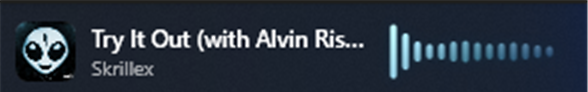
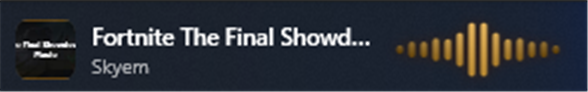
v1.0.2: symmetric spectrum, beat-reactive wave, click-away to close, borderless X

Changed region(s): [[0.0, 0.1957, 0.9796, 0.8913], [0.1531, 0.6304, 0.2755, 0.8478], [0.0, 0.9783, 1.0, 1.0]]

diff --git a/MainWindow.xaml b/MainWindow.xaml
@@ -157,15 +157,23 @@
                     </StackPanel>
                 </Grid>
 
-                <!-- Close button -->
-                <ui:Button x:Name="CloseButton" Appearance="Transparent" Padding="4"
-                           Width="28" Height="28" FontSize="12"
-                           HorizontalAlignment="Right" VerticalAlignment="Top" Margin="0,10,10,0"
-                           Click="Close_Click" ToolTip="Cerrar">
-                    <ui:Button.Icon>
-                        <ui:SymbolIcon Symbol="Dismiss24" />
-                    </ui:Button.Icon>
-                </ui:Button>
+                <!-- Close (bare X, no button chrome) -->
+                <Border x:Name="CloseButton" Background="Transparent" Cursor="Hand"
+                        Width="24" Height="24" HorizontalAlignment="Right" VerticalAlignment="Top"
+                        Margin="0,10,12,0" MouseLeftButtonUp="Close_Click" ToolTip="Cerrar">
+                    <Border.Style>
+                        <Style TargetType="Border">
+                            <Setter Property="Opacity" Value="0.55" />
+                            <Style.Triggers>
+                                <Trigger Property="IsMouseOver" Value="True">
+                                    <Setter Property="Opacity" Value="1" />
+                                </Trigger>
+                            </Style.Triggers>
+                        </Style>
+                    </Border.Style>
+                    <ui:SymbolIcon Symbol="Dismiss24" FontSize="15" Foreground="White"
+                                   HorizontalAlignment="Center" VerticalAlignment="Center" />
+                </Border>
             </Grid>
         </Border>
     </Grid>

diff --git a/SpectrumWindow.xaml.cs b/SpectrumWindow.xaml.cs
@@ -54,13 +54,17 @@ public partial class SpectrumWindow : Window
     private readonly DispatcherTimer _topmostTimer = new() { Interval = TimeSpan.FromMilliseconds(800) };
     private IntPtr _hwnd;
 
+    private const int Half = (BarCount + 1) / 2;   // bands mirrored around the centre
+
     private readonly AudioSpectrumService _spectrum;
     private Rectangle[] _bars = Array.Empty<Rectangle>();
-    private readonly float[] _raw = new float[BarCount];
-    private readonly float[] _smooth = new float[BarCount];
-    private readonly float[] _display = new float[BarCount];
+    private readonly float[] _band = new float[Half];
+    private readonly float[] _smooth = new float[Half];
     private float _agc = 1e-4f;
     private Color _accent = Color.FromRgb(0x4C, 0xC2, 0xFF);
+
+    /// <summary>Bounds of the widget in physical pixels (for click-outside detection).</summary>
+    public (int L, int T, int R, int B) WidgetBounds => (_rectL, _rectT, _rectR, _rectB);
 
     /// <summary>Raised when the user clicks the taskbar widget.</summary>
     public event Action? WidgetClicked;
@@ -183,19 +187,19 @@ public partial class SpectrumWindow : Window
         };
     }
 
-    /// <summary>Paint a smooth horizontal colour gradient across the bars (light → accent → deep).</summary>
+    /// <summary>Symmetric colour: bright at the centre, deeper toward the edges (matches the mirror).</summary>
     private void ApplyBarColors()
     {
         if (_bars.Length == 0) return;
 
-        Color left = Lighten(_accent, 95);
-        Color mid = _accent;
-        Color right = Deepen(_accent);
+        Color bright = Lighten(_accent, 55);
+        Color deep = Deepen(_accent);
+        double centre = (_bars.Length - 1) / 2.0;
 
         for (int i = 0; i < _bars.Length; i++)
         {
-            double t = _bars.Length <= 1 ? 0 : (double)i / (_bars.Length - 1);
-            Color baseC = t < 0.5 ? Lerp(left, mid, t * 2) : Lerp(mid, right, (t - 0.5) * 2);
+            double dc = centre <= 0 ? 0 : Math.Abs(i - centre) / centre; // 0 = centre, 1 = edge
+            Color baseC = Lerp(bright, deep, dc);
 
             var g = new LinearGradientBrush { StartPoint = new Point(0, 0), EndPoint = new Point(0, 1) };
             g.GradientStops.Add(new GradientStop(Lighten(baseC, 45), 0));
@@ -215,36 +219,42 @@ public partial class SpectrumWindow : Window
     {
         if (!_spectrum.IsRunning || _bars.Length == 0) return;
 
-        _spectrum.GetBars(_raw);
+        // Only half as many bands — they get mirrored, so bass sits in the centre.
+        _spectrum.GetBars(_band);
 
         float max = 0;
-        for (int i = 0; i < BarCount; i++)
-            if (_raw[i] > max) max = _raw[i];
+        for (int i = 0; i < Half; i++)
+            if (_band[i] > max) max = _band[i];
 
         _agc = Math.Max(max, _agc * 0.985f);
         if (_agc < 1e-4f) _agc = 1e-4f;
 
         bool quiet = max < 0.006f;
 
-        for (int i = 0; i < BarCount; i++)
+        for (int i = 0; i < Half; i++)
         {
-            float target = quiet ? 0f : Math.Clamp(_raw[i] / _agc, 0f, 1f);
-            float rate = target > _smooth[i] ? 0.5f : 0.08f; // fast attack, slow release (gradual pause)
+            float target = quiet ? 0f : Math.Clamp(_band[i] / _agc, 0f, 1f);
+            float rate = target > _smooth[i] ? 0.5f : 0.08f; // fast attack, slow release
             _smooth[i] += (target - _smooth[i]) * rate;
         }
 
-        // Light spatial smoothing => a flowing waveform rather than jumpy spikes.
         double h = BarsCanvas.ActualHeight > 0 ? BarsCanvas.ActualHeight : BarsCanvas.Height;
-        for (int i = 0; i < BarCount; i++)
-        {
-            float l = _smooth[Math.Max(0, i - 1)];
-            float r = _smooth[Math.Min(BarCount - 1, i + 1)];
-            _display[i] = (l + 2 * _smooth[i] + r) / 4f;
+        int center = BarCount / 2;
 
-            double bh = _display[i] < 0.012 ? 0 : 3 + _display[i] * (h - 4);
-            _bars[i].Height = bh;
-            Canvas.SetTop(_bars[i], (h - bh) / 2); // grow from the centre line
+        // Mirror: band 0 (bass) lands on the two centre bars, higher bands fan out to the edges.
+        for (int j = 0; j < Half; j++)
+        {
+            double bh = _smooth[j] < 0.012 ? 0 : 3 + _smooth[j] * (h - 4);
+            SetBar(center + j, bh, h);       // right side
+            SetBar(center - 1 - j, bh, h);   // left side
         }
+    }
+
+    private void SetBar(int index, double barHeight, double canvasHeight)
+    {
+        if (index < 0 || index >= _bars.Length) return;
+        _bars[index].Height = barHeight;
+        Canvas.SetTop(_bars[index], (canvasHeight - barHeight) / 2); // grow from the centre line
     }
 
     protected override void OnClosed(EventArgs e)

diff --git a/MainWindow.xaml.cs b/MainWindow.xaml.cs
@@ -1,5 +1,7 @@
+using System.Runtime.InteropServices;
 using System.Windows;
 using System.Windows.Input;
+using System.Windows.Interop;
 using System.Windows.Media;
 using System.Windows.Media.Animation;
 using System.Windows.Threading;
@@ -18,6 +20,21 @@ public partial class MainWindow : Window
     private readonly NowPlayingViewModel _vm = new();
 
     private SpectrumWindow? _spectrum;
+
+    // Global mouse hook to close the flyout when the user clicks anywhere outside it.
+    private delegate IntPtr LowLevelMouseProc(int nCode, IntPtr wParam, IntPtr lParam);
+    [DllImport("user32.dll")] private static extern IntPtr SetWindowsHookEx(int idHook, LowLevelMouseProc lpfn, IntPtr hMod, uint dwThreadId);
+    [DllImport("user32.dll")] private static extern bool UnhookWindowsHookEx(IntPtr hhk);
+    [DllImport("user32.dll")] private static extern IntPtr CallNextHookEx(IntPtr hhk, int nCode, IntPtr wParam, IntPtr lParam);
+    [DllImport("kernel32.dll", CharSet = CharSet.Unicode)] private static extern IntPtr GetModuleHandle(string? lpModuleName);
+    private const int WH_MOUSE_LL = 14;
+    private const int WM_LBUTTONDOWN = 0x0201;
+    [StructLayout(LayoutKind.Sequential)] private struct POINT { public int X; public int Y; }
+    [StructLayout(LayoutKind.Sequential)]
+    private struct MSLLHOOKSTRUCT { public POINT pt; public uint mouseData; public uint flags; public uint time; public IntPtr dwExtraInfo; }
+    private IntPtr _mouseHook;
+    private LowLevelMouseProc? _mouseProc;
+    private int _flyL, _flyT, _flyR, _flyB; // flyout bounds in physical pixels
 
     private readonly DispatcherTimer _positionTimer = new() { Interval = TimeSpan.FromMilliseconds(500) };
     private readonly DispatcherTimer _hideTimer = new() { Interval = TimeSpan.FromSeconds(5) };
@@ -85,10 +102,30 @@ public partial class MainWindow : Window
         _spectrum.Show();
         _spectrum.SetAccent(_accent);
 
+        // Close the flyout when the user clicks anywhere outside it.
+        _mouseProc = MouseHookCallback;
+        _mouseHook = SetWindowsHookEx(WH_MOUSE_LL, _mouseProc, GetModuleHandle(null), 0);
+
         // Media
         _media.NowPlayingChanged += OnNowPlaying;
         _media.TimelineChanged += OnTimeline;
         await _media.InitializeAsync();
+    }
+
+    private IntPtr MouseHookCallback(int nCode, IntPtr wParam, IntPtr lParam)
+    {
+        if (nCode >= 0 && wParam.ToInt32() == WM_LBUTTONDOWN && IsVisible && Opacity > 0.5)
+        {
+            var data = Marshal.PtrToStructure<MSLLHOOKSTRUCT>(lParam);
+            int x = data.pt.X, y = data.pt.Y;
+            bool insideFlyout = x >= _flyL && x <= _flyR && y >= _flyT && y <= _flyB;
+            // Clicks on the taskbar widget are handled by its own toggle — ignore them here.
+            var wb = _spectrum?.WidgetBounds ?? (0, 0, 0, 0);
+            bool insideWidget = x >= wb.L && x <= wb.R && y >= wb.T && y <= wb.B;
+            if (!insideFlyout && !insideWidget)
+                Dispatcher.BeginInvoke(new Action(HideWidget));
+        }
+        return CallNextHookEx(IntPtr.Zero, nCode, wParam, lParam);
     }
 
     private void OnContentRendered(object? sender, EventArgs e)
@@ -248,6 +285,17 @@ public partial class MainWindow : Window
         var h = ActualHeight > 0 ? ActualHeight : 200;
         Left = wa.Left - 8;
         Top = wa.Bottom - h + 16;
+
+        // Physical bounds of the visible card (window minus the shadow margin) for click-outside.
+        var src = PresentationSource.FromVisual(this);
+        double dpiX = src?.CompositionTarget?.TransformToDevice.M11 ?? 1.0;
+        double dpiY = src?.CompositionTarget?.TransformToDevice.M22 ?? 1.0;
+        const double margin = 24;
+        double w = ActualWidth > 0 ? ActualWidth : Width;
+        _flyL = (int)Math.Round((Left + margin) * dpiX);
+        _flyT = (int)Math.Round((Top + margin) * dpiY);
+        _flyR = (int)Math.Round((Left + w - margin) * dpiX);
+        _flyB = (int)Math.Round((Top + h - margin) * dpiY);
     }
 
     private void AnimateArt()
@@ -289,7 +337,7 @@ public partial class MainWindow : Window
         _spectrum?.SetAccent(accent);
     }
 
-    private void Close_Click(object sender, RoutedEventArgs e) => HideWidget();
+    private void Close_Click(object sender, MouseButtonEventArgs e) => HideWidget();
 
     // ---------- Tray ----------
 
@@ -351,6 +399,7 @@ public partial class MainWindow : Window
         _reallyExit = true;
         _hideTimer.Stop();
         _positionTimer.Stop();
+        if (_mouseHook != IntPtr.Zero) { UnhookWindowsHookEx(_mouseHook); _mouseHook = IntPtr.Zero; }
         if (_tray is not null) { _tray.Visible = false; _tray.Dispose(); }
         _spectrum?.Close();
         _spectrumService.Dispose();

diff --git a/Controls/WaveProgressBar.cs b/Controls/WaveProgressBar.cs
@@ -61,16 +61,17 @@ public sealed class WaveProgressBar : FrameworkElement
     {
         if (!IsVisible) return;
 
-        // Reactive amplitude: auto-gain the live audio level so the wave swells on loud
-        // passages and calms on quiet ones. Falls back to a steady swell if no provider.
+        // Reactive amplitude: the wave clearly swells on loud passages and calms on quiet ones.
         double reactive;
         if (LevelProvider is not null)
         {
             float level = LevelProvider();
-            _levelAgc = Math.Max(level, _levelAgc * 0.99f);
-            if (_levelAgc < 1e-4f) _levelAgc = 1e-4f;
+            // Slow auto-gain tracks the track's overall loudness; momentary peaks push the wave up.
+            _levelAgc = Math.Max(level, _levelAgc * 0.996f);
+            if (_levelAgc < 8e-4f) _levelAgc = 8e-4f;
             double norm = Math.Clamp(level / _levelAgc, 0, 1);
-            reactive = 0.8 + 4.4 * norm;
+            norm = Math.Pow(norm, 1.3);          // punchier dynamics
+            reactive = 0.5 + 5.5 * norm;         // ~flat when quiet, tall on the loud parts
         }
         else
         {
@@ -78,7 +79,8 @@ public sealed class WaveProgressBar : FrameworkElement
         }
 
         double targetAmp = IsActive ? reactive : 0.0;
-        _amp += (targetAmp - _amp) * 0.18;
+        double k = targetAmp > _amp ? 0.4 : 0.12; // quick swell, smooth settle
+        _amp += (targetAmp - _amp) * k;
         if (IsActive) _phase += 0.12; // gentle rolling motion
         InvalidateVisual();
     }